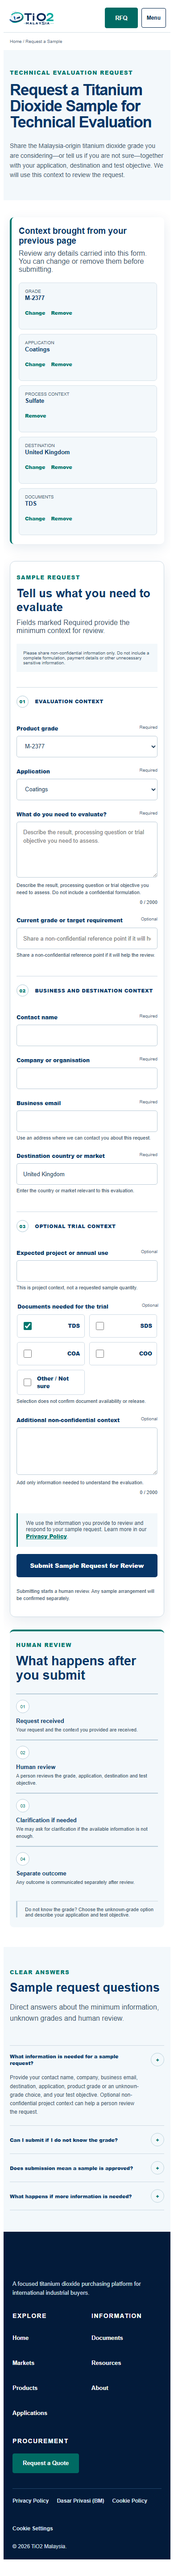
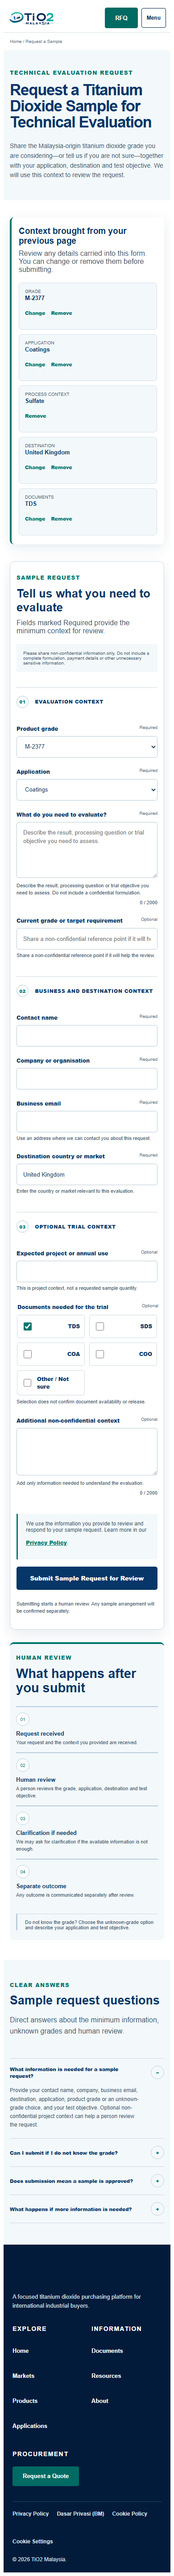
fix: address sample request gate 9 findings

diff --git a/components/sites/tio2-my/request-sample/malaysia-request-sample-form.tsx b/components/sites/tio2-my/request-sample/malaysia-request-sample-form.tsx
@@ -6,7 +6,7 @@ import {emptyMalaysiaSampleRequestValues,validateMalaysiaSampleRequest,type Mala
 import type {MalaysiaRequestSamplePageDto} from '@/lib/wordpress/request-sample-v01-types'
 import styles from './malaysia-request-sample-page.module.css'
 
-interface Props{readonly page:MalaysiaRequestSamplePageDto;readonly prefill:MalaysiaSamplePrefill}
+interface Props{readonly page:MalaysiaRequestSamplePageDto;readonly prefill:MalaysiaSamplePrefill;readonly receiverReady:boolean}
 type State='ready'|'submitting'|'failure'|'success'|'unavailable'
 type Field=keyof MalaysiaSampleRequestValues
 const labels:Record<Field,string>={grade_id:'Product grade',application_id:'Application',application_other:'Describe the application',test_objective:'What do you need to evaluate?',current_grade_or_target:'Current grade or target requirement',contact_name:'Contact name',company_organisation:'Company or organisation',business_email:'Business email',destination_country_market:'Destination country or market',expected_project_annual_use:'Expected project or annual use',documents_needed:'Documents needed for the trial',additional_context:'Additional non-confidential context'}
@@ -19,7 +19,7 @@ export function createSampleRequestIdempotencyKey(cryptoApi:Crypto|undefined=glo
   const hex=[...bytes].map((byte)=>byte.toString(16).padStart(2,'0')).join('');return `${hex.slice(0,8)}-${hex.slice(8,12)}-${hex.slice(12,16)}-${hex.slice(16,20)}-${hex.slice(20)}`
 }
 
-export function MalaysiaRequestSampleForm({page,prefill}:Props){
+export function MalaysiaRequestSampleForm({page,prefill,receiverReady}:Props){
   const [values,setValues]=useState<MalaysiaSampleRequestValues>({...emptyMalaysiaSampleRequestValues,grade_id:prefill.grade_id??'',application_id:prefill.application_id??'',destination_country_market:prefill.destination??'',documents_needed:prefill.documents_needed??[]})
   const [context,setContext]=useState({source_page_id:prefill.source_page_id,market_id:prefill.market_id,process_context:prefill.process_context,resource_context:prefill.resource_context})
   const [visible,setVisible]=useState({grade:Boolean(prefill.grade_id),application:Boolean(prefill.application_id),destination:Boolean(prefill.destination),documents:Boolean(prefill.documents_needed?.length),process:Boolean(prefill.process_context),resource:Boolean(prefill.resource_context)})
@@ -44,12 +44,14 @@ export function MalaysiaRequestSampleForm({page,prefill}:Props){
   const described=(field:Field,helper=false)=>[helper?`sample-${field}-helper`:null,errors[field]?`sample-${field}-error`:null].filter(Boolean).join(' ')||undefined
   const contextVisible=Object.values(visible).some(Boolean)
 
+  if(!receiverReady)return <section className={styles.formSurface} data-module="sample-request" aria-labelledby="sample-unavailable-heading"><div className={`${styles.statePanel} ${styles.unavailable}`}><h2 id="sample-unavailable-heading">{page.form.unavailable.heading}</h2><p>{page.form.unavailable.body}</p></div></section>
+
   return <>
     {contextVisible&&<section className={styles.prefill} aria-labelledby="sample-prefill-heading" data-module="prefill-context"><h2 id="sample-prefill-heading">{page.prefill.heading}</h2><p>{page.prefill.body}</p><div className={styles.prefillGrid}>
       {visible.grade&&<Context label="Grade" targetId="sample-grade_id" value={values.grade_id} onRemove={()=>remove('grade')}/>} {visible.application&&<Context label="Application" targetId="sample-application_id" value={page.form.applicationOptions.find((item)=>item.value===values.application_id)?.label??values.application_id} onRemove={()=>remove('application')}/>} {visible.process&&context.process_context&&<Context label="Process context" value={processLabels[context.process_context]} onRemove={()=>remove('process')} removeOnly/>} {visible.destination&&<Context label="Destination" targetId="sample-destination_country_market" value={values.destination_country_market} onRemove={()=>remove('destination')}/>} {visible.documents&&<Context label="Documents" targetId="sample-documents" value={values.documents_needed.map((value)=>page.form.documentOptions.find((item)=>item.value===value)?.label??value).join(', ')} onRemove={()=>remove('documents')}/>} {visible.resource&&context.resource_context&&prefill.resource_context_label&&<Context label="Resource context" value={prefill.resource_context_label} onRemove={()=>remove('resource')} removeOnly/>}
     </div></section>}
     <section className={styles.formSurface} data-module="sample-request" aria-labelledby="sample-form-heading">
-      <form className={styles.form} aria-label="Request a Sample" onSubmit={submit} noValidate>
+      <form className={styles.form} aria-label="Request a Sample" aria-busy={state==='submitting'||undefined} onSubmit={submit} noValidate>
         <p className={styles.eyebrow}>{page.form.eyebrow}</p><h2 id="sample-form-heading">{page.form.heading}</h2><p className={styles.formIntro}>{page.form.intro}</p><p className={styles.warning}>{page.form.warning}</p>
         {Object.keys(errors).length>0&&<div ref={summaryRef} tabIndex={-1} role="alert" className={styles.errorSummary}><h3>{page.form.errors.summary}</h3><ul>{Object.entries(errors).map(([field,message])=><li key={field}><a href={`#sample-${field}`} onClick={(event)=>{event.preventDefault();focusField(field as Field)}}>{labels[field as Field]}: {message}</a></li>)}</ul></div>}
         {state==='unavailable'?<StatePanel refValue={stateRef} kind="unavailable" heading={page.form.unavailable.heading} body={page.form.unavailable.body}/>:state==='success'?<StatePanel refValue={stateRef} kind="success" heading={page.form.success.heading} body={page.form.success.body}/>:<>

diff --git a/tests/e2e/request-sample.spec.ts b/tests/e2e/request-sample.spec.ts
@@ -44,6 +44,9 @@ for (const viewport of [
         (nodes) => nodes.map((node) => node.getBoundingClientRect()),
       )
       expect(prefillTargets.every((box) => box.height >= 44 && box.width >= 44)).toBe(true)
+      const privacyTarget = await page.getByRole('form').getByRole('link', {name: 'Privacy Policy'}).boundingBox()
+      expect(privacyTarget?.width).toBeGreaterThanOrEqual(44)
+      expect(privacyTarget?.height).toBeGreaterThanOrEqual(44)
     }
 
     const header = page.locator('header')
@@ -86,6 +89,9 @@ for (const width of [320, 375, 430, 1024, 1280]) {
           .map((node) => node.getBoundingClientRect())
           .filter((box) => box.width > 0))
       expect(boxes.every((box) => box.height >= 44)).toBe(true)
+      const privacyTarget = await page.getByRole('form').getByRole('link', {name: 'Privacy Policy'}).boundingBox()
+      expect(privacyTarget?.width).toBeGreaterThanOrEqual(44)
+      expect(privacyTarget?.height).toBeGreaterThanOrEqual(44)
       const columns = await page.locator('form [data-field-grid]').first().evaluate(
         (node) => getComputedStyle(node).gridTemplateColumns.split(' ').length,
       )
@@ -156,12 +162,16 @@ test('CONV-SAMPLE retains values and token across direct retry, then confirms on
     })
   })
   await page.getByRole('button', {name: 'Submit Sample Request for Review'}).click()
+  await expect(page.getByRole('form')).toHaveAttribute('aria-busy', 'true')
   await expect(page.getByRole('heading', {name: 'We could not confirm that your request was received.'})).toBeVisible()
+  await expect(page.getByRole('form')).not.toHaveAttribute('aria-busy')
   await expect(page.locator('#sample-company_organisation')).toHaveValue('Example Co')
   await page.screenshot({path: resolve(evidence, 'conv-sample-failure.png'), fullPage: true, animations: 'disabled'})
   await page.getByRole('button', {name: 'Try again'}).click()
+  await expect(page.getByRole('form')).toHaveAttribute('aria-busy', 'true')
   await expect(page.getByRole('button', {name: 'Sending your request…'})).toBeDisabled()
   await expect(page.getByRole('heading', {name: 'Your sample request has been received.'})).toBeVisible()
+  await expect(page.getByRole('form')).not.toHaveAttribute('aria-busy')
   expect(tokens).toHaveLength(2)
   expect(tokens[1]).toBe(tokens[0])
   await page.screenshot({path: resolve(evidence, 'conv-sample-success.png'), fullPage: true, animations: 'disabled'})
@@ -177,12 +187,32 @@ test('CONV-SAMPLE replaces a known unavailable form with the approved restricted
   await page.locator('#sample-company_organisation').fill('Example Co')
   await page.locator('#sample-business_email').fill('amina@example.com')
   await page.locator('#sample-destination_country_market').fill('Malaysia')
+  await page.route('**/api/tio2-my/request-sample', async (route) => route.fulfill({status: 503, contentType: 'application/json', body: JSON.stringify({ok: false, receipt_confirmed: false, kind: 'unavailable'})}))
   await page.getByRole('button', {name: 'Submit Sample Request for Review'}).click()
   await expect(page.getByRole('heading', {name: 'We cannot confirm sample requests right now.'})).toBeVisible()
   await expect(page.locator('[data-sample-field]')).toHaveCount(0)
   await expect(page.getByRole('button', {name: 'Submit Sample Request for Review'})).toHaveCount(0)
   await expect(page.getByRole('button', {name: 'Try again'})).toHaveCount(0)
   await page.screenshot({path: resolve(evidence, 'conv-sample-unavailable-390.png'), fullPage: true, animations: 'disabled'})
+})
+
+test('CONV-SAMPLE FAQ buttons expose state, panel relationships and keyboard operation', async ({page}) => {
+  await page.setViewportSize({width: 390, height: 844})
+  await page.goto(`${baseUrl}/request-sample/`, {waitUntil: 'domcontentloaded'})
+  const first = page.getByRole('button', {name: 'What information is needed for a sample request?'})
+  const second = page.getByRole('button', {name: 'Can I submit if I do not know the grade?'})
+  await expect(first).toHaveAttribute('aria-expanded', 'true');await expect(second).toHaveAttribute('aria-expanded', 'false')
+  const panelId = await second.getAttribute('aria-controls');expect(panelId).toBeTruthy();await expect(page.locator(`#${panelId}`)).toBeHidden()
+  await second.focus();await page.keyboard.press('Enter');await expect(second).toHaveAttribute('aria-expanded', 'true');await expect(page.locator(`#${panelId}`)).toBeVisible();await expect(second).toBeFocused()
+})
+
+test('CONV-SAMPLE initial GET fails closed when receiver readiness is absent', async ({page}) => {
+  test.skip(process.env.EXPECT_SAMPLE_INITIAL_UNAVAILABLE !== '1', 'Run against a server started without receiver URL/token')
+  await page.setViewportSize({width: 390, height: 844})
+  const response=await page.goto(`${baseUrl}/request-sample/`, {waitUntil: 'domcontentloaded'});expect(response?.ok()).toBe(true)
+  await expect(page.getByRole('form')).toHaveCount(0);await expect(page.locator('[data-sample-field]')).toHaveCount(0);await expect(page.getByRole('button',{name:'Submit Sample Request for Review'})).toHaveCount(0)
+  await expect(page.getByRole('heading',{name:'We cannot confirm sample requests right now.'})).toBeVisible();await expect(page.getByText('The sample request form is not available. No request has been confirmed. Please try again later.')).toBeVisible()
+  await page.screenshot({path: resolve(evidence, 'conv-sample-initial-unavailable-390.png'), fullPage: true, animations: 'disabled'})
 })
 
 test('CONV-SAMPLE Mobile Menu traps focus, closes on Escape and restores the trigger', async ({page}) => {

diff --git a/tests/unit/request-sample/malaysia-request-sample-template.test.tsx b/tests/unit/request-sample/malaysia-request-sample-template.test.tsx
@@ -1,5 +1,5 @@
 // @vitest-environment jsdom
-import {cleanup,render,screen,within} from '@testing-library/react'
+import {cleanup,render,screen,waitFor,within} from '@testing-library/react'
 import userEvent from '@testing-library/user-event'
 import {afterEach,beforeEach,describe,expect,it,vi} from 'vitest'
 import {MalaysiaRequestSamplePage} from '@/components/sites/tio2-my/request-sample/malaysia-request-sample-page'
@@ -8,7 +8,7 @@ import {toMalaysiaRequestSamplePageDto} from '@/lib/wordpress/request-sample-v01
 import {malaysiaRequestSamplePageSource} from '@/tests/fixtures/tio2-my-request-sample-page'
 
 const dto=toMalaysiaRequestSamplePageDto(malaysiaRequestSamplePageSource())
-const renderPage=(prefill=resolveMalaysiaSamplePrefill({}))=>render(<MalaysiaRequestSamplePage page={dto} prefill={prefill} structuredData={null}/>)
+const renderPage=(prefill=resolveMalaysiaSamplePrefill({}),receiverReady=true)=>render(<MalaysiaRequestSamplePage page={dto} prefill={prefill} receiverReady={receiverReady} structuredData={null}/>)
 beforeEach(()=>vi.stubGlobal('fetch',vi.fn(async()=>new Response(JSON.stringify({ok:true,receipt_confirmed:true,kind:'receipt_confirmed'}),{status:200}))))
 afterEach(()=>{cleanup();vi.unstubAllGlobals();vi.clearAllMocks()})
 
@@ -25,6 +25,25 @@ describe('CONV-SAMPLE page and form',()=>{
     expect(container.textContent).not.toContain('CURRENT');expect(within(container.querySelector('header')!).queryAllByRole('link',{current:'page'})).toHaveLength(0)
     for(const item of dto.faq.items)expect(container.textContent).toContain(item.answer)
     expect(container.textContent).not.toMatch(/Free sample|Contact us|Sample quantity Required/iu)
+  })
+  it('server-renders the approved unavailable panel instead of usable controls when receiver readiness is false',()=>{
+    renderPage(resolveMalaysiaSamplePrefill({}),false)
+    expect(screen.queryByRole('form')).toBeNull();expect(screen.queryByLabelText(/Product grade/u)).toBeNull();expect(screen.queryByRole('button',{name:'Submit Sample Request for Review'})).toBeNull()
+    expect(screen.getByRole('heading',{name:'We cannot confirm sample requests right now.'})).toBeTruthy();expect(screen.getByText('The sample request form is not available. No request has been confirmed. Please try again later.')).toBeTruthy();expect(screen.queryByText(/Contact us/iu)).toBeNull()
+  })
+  it('uses disclosure buttons with accurate expanded state and linked FAQ panels',async()=>{
+    const user=userEvent.setup();renderPage();const buttons=dto.faq.items.map((item)=>screen.getByRole('button',{name:item.question}))
+    expect(buttons[0]?.getAttribute('aria-expanded')).toBe('true');expect(buttons[1]?.getAttribute('aria-expanded')).toBe('false')
+    const firstPanel=document.getElementById(buttons[0]!.getAttribute('aria-controls')!);const secondPanel=document.getElementById(buttons[1]!.getAttribute('aria-controls')!)
+    expect(firstPanel?.hasAttribute('hidden')).toBe(false);expect(firstPanel?.getAttribute('aria-labelledby')).toBe(buttons[0]!.id);expect(secondPanel?.hasAttribute('hidden')).toBe(true);expect(secondPanel?.getAttribute('aria-labelledby')).toBe(buttons[1]!.id)
+    buttons[1]!.focus();await user.keyboard('{Enter}');expect(buttons[1]?.getAttribute('aria-expanded')).toBe('true');expect(secondPanel?.hasAttribute('hidden')).toBe(false);expect(document.activeElement).toBe(buttons[1])
+  })
+  it('sets aria-busy only while a submission is in flight',async()=>{
+    let resolveRequest:(value:Response)=>void=()=>undefined
+    vi.mocked(fetch).mockImplementationOnce(()=>new Promise<Response>((resolve)=>{resolveRequest=resolve}))
+    const user=userEvent.setup();renderPage();await fillRequired(user);const form=screen.getByRole('form');await user.click(screen.getByRole('button',{name:'Submit Sample Request for Review'}))
+    await waitFor(()=>expect(form.getAttribute('aria-busy')).toBe('true'));resolveRequest(new Response(JSON.stringify({ok:true,receipt_confirmed:true,kind:'receipt_confirmed'}),{status:200}))
+    await screen.findByRole('heading',{name:'Your sample request has been received.'});expect(form.hasAttribute('aria-busy')).toBe(false)
   })
   it('shows accepted prefill visibly and allows every buyer value to be removed',async()=>{
     const user=userEvent.setup();renderPage(resolveMalaysiaSamplePrefill({source_page_id:'GRADE-M2377',grade_id:'M-2377',application_id:'coatings',process_context:'sulfate',destination:'United Kingdom',document_needs:['tds']}))

diff --git a/tests/integration/request-sample/route.test.tsx b/tests/integration/request-sample/route.test.tsx
@@ -4,16 +4,22 @@ import {toMalaysiaRequestSamplePageDto} from '@/lib/wordpress/request-sample-v01
 import {getSiteConfig} from '@/sites'
 import {malaysiaRequestSamplePageSource} from '@/tests/fixtures/tio2-my-request-sample-page'
 
+const pageDto=toMalaysiaRequestSamplePageDto(malaysiaRequestSamplePageSource())
 const mocks=vi.hoisted(()=>({getCurrentSite:vi.fn(),getPage:vi.fn()}))
 vi.mock('@/lib/sites/current-site',()=>({getCurrentSite:mocks.getCurrentSite}))
 vi.mock('@/lib/wordpress/request-sample-v01-queries',()=>({getMalaysiaRequestSamplePage:mocks.getPage}))
-beforeEach(()=>{mocks.getCurrentSite.mockReturnValue(getSiteConfig('tio2-my'));mocks.getPage.mockResolvedValue(toMalaysiaRequestSamplePageDto(malaysiaRequestSamplePageSource()))})
+beforeEach(()=>{vi.stubEnv('TIO2_MY_REQUEST_SAMPLE_RECEIVER_URL','https://receiver.example.test/sample');vi.stubEnv('TIO2_MY_REQUEST_SAMPLE_RECEIVER_TOKEN','test-token');mocks.getCurrentSite.mockReturnValue(getSiteConfig('tio2-my'));mocks.getPage.mockResolvedValue(pageDto)})
 afterEach(()=>{vi.clearAllMocks();vi.unstubAllEnvs();vi.resetModules()})
 
 describe('CONV-SAMPLE route',()=>{
   it('server-renders safe visible prefill, initial answers, one graph and shared Chrome',async()=>{
     const route=await import('@/app/request-sample/page');const markup=renderToStaticMarkup(await route.default({searchParams:Promise.resolve({source_page_id:'GRADE-M2377',grade_id:'M-2377',application_id:'coatings',process_context:'sulfate',destination:'United Kingdom','document_needs[]':['tds','coa']})}))
-    expect(markup).toContain('data-site-scope="tio2-my"');expect(markup).toContain('Context brought from your previous page');expect(markup).toContain('value="M-2377" selected=""');expect(markup).toContain('United Kingdom');expect(markup.match(/application\/ld\+json/gu)).toHaveLength(1);expect(markup.match(/<header/gu)).toHaveLength(1);expect(markup.match(/<footer/gu)).toHaveLength(1);expect(markup).not.toContain('/contact')
+    expect(markup).toContain('data-site-scope="tio2-my"');expect(markup).toContain('Context brought from your previous page');expect(markup).toContain('value="M-2377" selected=""');expect(markup).toContain('United Kingdom');expect(markup.match(/application\/ld\+json/gu)).toHaveLength(1);expect(markup.match(/<header/gu)).toHaveLength(1);expect(markup.match(/<footer/gu)).toHaveLength(1);expect(markup).not.toContain('/contact');expect(markup).not.toContain('receiver.example.test');expect(markup).not.toContain('test-token')
+    for(const item of pageDto.faq.items)expect(markup).toContain(item.answer)
+  })
+  it.each([{url:'',token:'test-token'},{url:'https://receiver.example.test/sample',token:''}])('server-renders no usable form or receiver secret when either readiness input is absent',async({url,token})=>{
+    vi.stubEnv('TIO2_MY_REQUEST_SAMPLE_RECEIVER_URL',url);vi.stubEnv('TIO2_MY_REQUEST_SAMPLE_RECEIVER_TOKEN',token);const route=await import('@/app/request-sample/page');const markup=renderToStaticMarkup(await route.default({searchParams:Promise.resolve({})}))
+    expect(markup).not.toContain('<form');expect(markup).not.toContain('id="sample-grade_id"');expect(markup).not.toContain('Submit Sample Request for Review');expect(markup).toContain('We cannot confirm sample requests right now.');expect(markup).toContain('The sample request form is not available. No request has been confirmed. Please try again later.');expect(markup).not.toContain('receiver.example.test');expect(markup).not.toContain('test-token')
   })
   it('rejects foreign site before querying WordPress',async()=>{mocks.getCurrentSite.mockReturnValue(getSiteConfig('tio2-b'));const route=await import('@/app/request-sample/page');await expect(route.default({searchParams:Promise.resolve({})})).rejects.toMatchObject({digest:'NEXT_HTTP_ERROR_FALLBACK;404'});expect(mocks.getPage).not.toHaveBeenCalled()})
   it('keeps metadata noindex and query-independent while authorization is false',async()=>{vi.stubEnv('VERCEL_ENV','production');vi.stubEnv('TIO2_MY_REQUEST_SAMPLE_INDEXING_RELEASE_AUTHORIZED','true');const route=await import('@/app/request-sample/page');await expect(route.generateMetadata()).resolves.toMatchObject({alternates:{canonical:'https://tio2malaysia.com/request-sample/'},robots:{index:false,follow:false}})})

diff --git a/components/sites/tio2-my/request-sample/malaysia-request-sample-page.tsx b/components/sites/tio2-my/request-sample/malaysia-request-sample-page.tsx
@@ -3,15 +3,16 @@ import Link from 'next/link'
 import {MalaysiaGlobalFooter,MalaysiaGlobalHeader} from '@/components/sites/tio2-my/malaysia-global-chrome'
 import type {MalaysiaSamplePrefill} from '@/lib/request-sample/malaysia-request-sample-prefill'
 import type {MalaysiaRequestSamplePageDto} from '@/lib/wordpress/request-sample-v01-types'
+import {MalaysiaRequestSampleFaq} from './malaysia-request-sample-faq'
 import {MalaysiaRequestSampleForm} from './malaysia-request-sample-form'
 import styles from './malaysia-request-sample-page.module.css'
 
-export function MalaysiaRequestSamplePage({page,prefill,structuredData}:{readonly page:MalaysiaRequestSamplePageDto;readonly prefill:MalaysiaSamplePrefill;readonly structuredData:ReactNode}){
+export function MalaysiaRequestSamplePage({page,prefill,receiverReady,structuredData}:{readonly page:MalaysiaRequestSamplePageDto;readonly prefill:MalaysiaSamplePrefill;readonly receiverReady:boolean;readonly structuredData:ReactNode}){
   return <div className={styles.site} data-site-scope="tio2-my" data-page-id="CONV-SAMPLE"><MalaysiaGlobalHeader chrome={page.globalChrome} currentPageId="CONV-SAMPLE" sourcePageId="CONV-SAMPLE"/><main className={styles.main}>
     <nav aria-label="Breadcrumb" className={styles.breadcrumb} data-module="breadcrumb"><Link href="/">Home</Link><span aria-hidden="true"> / </span><span aria-current="page">Request a Sample</span></nav>
     <section className={styles.hero} data-module="hero" aria-labelledby="sample-h1"><div><p className={styles.eyebrow}>{page.hero.eyebrow}</p><h1 id="sample-h1">{page.hero.h1}</h1><p className={styles.heroBody}>{page.hero.body}</p></div><ol aria-label="Sample request overview">{page.hero.stages.map((stage,index)=><li key={stage}><span>{String(index+1).padStart(2,'0')}</span>{stage}</li>)}</ol></section>
-    <MalaysiaRequestSampleForm page={page} prefill={prefill}/>
+    <MalaysiaRequestSampleForm page={page} prefill={prefill} receiverReady={receiverReady}/>
     <section className={styles.review} data-module="human-review" aria-labelledby="sample-review-heading"><div><p className={styles.eyebrow}>{page.humanReview.eyebrow}</p><h2 id="sample-review-heading">{page.humanReview.heading}</h2></div><ol>{page.humanReview.steps.map((step,index)=><li key={step.title}><span>{String(index+1).padStart(2,'0')}</span><h3>{step.title}</h3><p>{step.body}</p></li>)}</ol><p className={styles.reviewNote}>{page.humanReview.note}</p></section>
-    <section className={styles.faq} data-module="faq" aria-labelledby="sample-faq-heading"><div><p className={styles.eyebrow}>{page.faq.eyebrow}</p><h2 id="sample-faq-heading">{page.faq.heading}</h2><p>{page.faq.intro}</p></div><div>{page.faq.items.map((item,index)=><details key={item.question} open={index===0}><summary>{item.question}<span aria-hidden="true">+</span></summary><p>{item.answer}</p></details>)}</div></section>
+    <section className={styles.faq} data-module="faq" aria-labelledby="sample-faq-heading"><div><p className={styles.eyebrow}>{page.faq.eyebrow}</p><h2 id="sample-faq-heading">{page.faq.heading}</h2><p>{page.faq.intro}</p></div><MalaysiaRequestSampleFaq items={page.faq.items}/></section>
   </main><MalaysiaGlobalFooter chrome={page.globalChrome} sourcePageId="CONV-SAMPLE"/>{structuredData}</div>
 }

diff --git a/app/request-sample/page.tsx b/app/request-sample/page.tsx
@@ -11,4 +11,4 @@ export const revalidate=3600
 interface RouteProps{readonly searchParams:Promise<Record<string,string|string[]|undefined>>}
 async function loadPage(){const site=getCurrentSite();if(site.id!=='tio2-my'||site.wordpressScope!=='tio2-my')notFound();return {site,page:await getMalaysiaRequestSamplePage()}}
 export async function generateMetadata():Promise<Metadata>{const {site,page}=await loadPage();return buildMalaysiaRequestSampleMetadata(site,{indexingAuthorized:page.releaseControls.indexingAuthorized,env:process.env})}
-export default async function RequestSampleRoute({searchParams}:RouteProps){const [{site,page},query]=await Promise.all([loadPage(),searchParams]);const prefill=resolveMalaysiaSamplePrefill({source_page_id:query.source_page_id,grade_id:query.grade_id,application_id:query.application_id,process_context:query.process_context,market_id:query.market_id,destination:query.destination,document_needs:query['document_needs[]']??query.document_needs,resource_context:query.resource_context});const jsonLd=serializeMalaysiaRequestSampleJsonLd(buildMalaysiaRequestSampleJsonLd(site));return <MalaysiaRequestSamplePage page={page} prefill={prefill} structuredData={<script type="application/ld+json" dangerouslySetInnerHTML={{__html:jsonLd}}/>}/>}
+export default async function RequestSampleRoute({searchParams}:RouteProps){const [{site,page},query]=await Promise.all([loadPage(),searchParams]);const prefill=resolveMalaysiaSamplePrefill({source_page_id:query.source_page_id,grade_id:query.grade_id,application_id:query.application_id,process_context:query.process_context,market_id:query.market_id,destination:query.destination,document_needs:query['document_needs[]']??query.document_needs,resource_context:query.resource_context});const receiverReady=Boolean(process.env.TIO2_MY_REQUEST_SAMPLE_RECEIVER_URL?.trim()&&process.env.TIO2_MY_REQUEST_SAMPLE_RECEIVER_TOKEN?.trim());const jsonLd=serializeMalaysiaRequestSampleJsonLd(buildMalaysiaRequestSampleJsonLd(site));return <MalaysiaRequestSamplePage page={page} prefill={prefill} receiverReady={receiverReady} structuredData={<script type="application/ld+json" dangerouslySetInnerHTML={{__html:jsonLd}}/>}/>}

diff --git a/components/sites/tio2-my/request-sample/malaysia-request-sample-page.module.css b/components/sites/tio2-my/request-sample/malaysia-request-sample-page.module.css
@@ -3,3 +3,6 @@
 @media(max-width:520px){.breadcrumb,.prefill,.formSurface,.review{width:calc(100% - 28px)}.breadcrumb{padding-block:14px;font-size:10px}.hero{padding:42px 14px 45px}.hero h1{font-size:35px}.heroBody{font-size:14px;line-height:1.55}.prefill,.formSurface{margin-top:38px}.prefill{padding:20px 16px}.prefill h2{font-size:19px}.prefillGrid{grid-template-columns:1fr}.formSurface{padding:27px 14px 32px}.form h2{font-size:26px}.warning{font-size:10px}.form>fieldset>legend{font-size:11px}.field label,.documents>legend{font-size:12px}.field :is(input,select,textarea){min-height:48px;font-size:13px}.documents>div{grid-template-columns:repeat(2,minmax(0,1fr))}.submitRow button{width:100%}.review{padding:22px 14px}.review ol{grid-template-columns:1fr}.faq{margin-top:44px;padding:48px 14px}.faq h2{font-size:27px}.faq summary{font-size:11px}.faq details p{font-size:12px}}
 @media(prefers-reduced-motion:reduce){.main *,.main *::before,.main *::after{scroll-behavior:auto!important;animation-duration:.01ms!important;animation-iteration-count:1!important;transition-duration:.01ms!important}}
 .site{--teal:#00776e}.breadcrumb{color:#5c7185}.field label small,.documents legend small{color:#526a80}
+.statePanel h2{margin:0 0 8px;color:var(--navy);font-size:20px}.faqItem{border-top:1px solid var(--border)}.faqItem:last-child{border-bottom:1px solid var(--border)}.faqButton{display:flex;width:100%;min-height:62px;align-items:center;justify-content:space-between;gap:20px;padding:0;border:0;background:transparent;color:var(--navy);font:inherit;font-size:13px;font-weight:800;text-align:left;cursor:pointer}.faqButton span{display:grid;width:28px;height:28px;flex:0 0 28px;place-items:center;border:1px solid #bdd3dc;border-radius:50%;color:var(--teal)}.faqPanel p{margin:0;padding:0 48px 20px 0;line-height:1.6}
+@media(max-width:900px){.privacy a{display:inline-flex;min-width:44px;min-height:44px;align-items:center;justify-content:center;vertical-align:middle}}
+@media(max-width:520px){.faqButton{font-size:11px}.faqPanel p{font-size:12px}}

diff --git a/components/sites/tio2-my/request-sample/malaysia-request-sample-faq.tsx b/components/sites/tio2-my/request-sample/malaysia-request-sample-faq.tsx
@@ -1,0 +1,14 @@
+'use client'
+
+import {useState} from 'react'
+import styles from './malaysia-request-sample-page.module.css'
+
+interface FaqItem{readonly question:string;readonly answer:string}
+
+export function MalaysiaRequestSampleFaq({items}:{readonly items:readonly FaqItem[]}){
+  const [expanded,setExpanded]=useState(()=>items.map((_,index)=>index===0))
+  return <div>{items.map((item,index)=>{const triggerId=`sample-faq-trigger-${index+1}`;const panelId=`sample-faq-panel-${index+1}`;const open=expanded[index]??false;return <div className={styles.faqItem} key={item.question}>
+    <button className={styles.faqButton} type="button" id={triggerId} aria-expanded={open} aria-controls={panelId} onClick={()=>setExpanded((current)=>current.map((value,itemIndex)=>itemIndex===index?!value:value))}>{item.question}<span aria-hidden="true">{open?'−':'+'}</span></button>
+    <div className={styles.faqPanel} id={panelId} role="region" aria-labelledby={triggerId} hidden={!open}><p>{item.answer}</p></div>
+  </div>})}</div>
+}

diff --git a/docs/verification/conv-sample/CONV-SAMPLE_G9_TARGETED_REVISION_VERIFICATION_2026-09-04.md b/docs/verification/conv-sample/CONV-SAMPLE_G9_TARGETED_REVISION_VERIFICATION_2026-09-04.md
@@ -1,0 +1,86 @@
+# CONV-SAMPLE Gate 9 Targeted Revision Verification — 2026-09-04
+
+## Control and boundary
+
+- Review ID: `CONV-SAMPLE-G9-PCR-01`
+- Page: `CONV-SAMPLE` / `/request-sample/`
+- Site scope: `tio2-my`
+- Result: the four returned implementation findings were corrected locally and are ready for a fresh read-only Gate 9 review.
+- This record is not deployment, publication, indexing, Gate 9 approval, or Gate 10 authorization.
+
+## Corrected findings
+
+### `SAMPLE-G9-P1-01` — initial known unavailability
+
+- The server computes one non-secret `receiverReady` boolean from the Malaysia-only receiver URL and token configuration and passes only that boolean into the page tree.
+- If either configuration input is absent or blank, initial server rendering emits the exact approved unavailable heading/body and no `<form>`, sample field, submit action, prefill controls, receiver URL, or receiver token.
+- If readiness changes during a submission, the existing 503 unavailable state still replaces controls. Network/ambiguous failure still retains all entries and direct retry still reuses the same idempotency key.
+
+### `SAMPLE-G9-P1-02` — Privacy Policy target
+
+- At `900px` and below, the form's actual Privacy Policy anchor is an inline-flex target with a minimum width and height of `44px`.
+- Browser assertions pass at `768`, `430`, `390`, `375`, and `320px`; surrounding paragraph padding is not counted as the target.
+
+### `SAMPLE-G9-P2-01` — FAQ disclosure semantics
+
+- Each FAQ uses a native button with deterministic `id`, accurate `aria-expanded`, and `aria-controls` linked to a labelled answer region.
+- The first answer remains initially expanded. Every answer remains present in server-rendered HTML; closed panels use the native `hidden` state.
+- Browser and component tests verify Enter operation, state change, panel visibility, relationship integrity, and focus retention on the trigger.
+
+### `SAMPLE-G9-P2-02` — submitting busy state
+
+- The form exposes `aria-busy="true"` only while its receiver request is in flight and removes the attribute on failure or confirmed success.
+- Existing repeat-submission prevention, disabled fieldsets/button, retained values, direct retry, and positive-acknowledgement-only success behavior remain intact.
+
+## Test-driven evidence
+
+- Red phase: the new component/SSR tests produced four expected failures covering initial fail-closed rendering, FAQ button semantics, and form busy state before production code was changed.
+- Green focused phase: `2` files, `14` tests passed.
+
+## Fresh verification commands
+
+| Check | Command | Result |
+|---|---|---|
+| Focused component + SSR | `pnpm exec vitest run tests/unit/request-sample/malaysia-request-sample-template.test.tsx tests/integration/request-sample/route.test.tsx` | PASS — 2 files, 14 tests |
+| CONV-SAMPLE regression and isolation | `pnpm exec vitest run tests/unit/wordpress/cache-tags.test.ts tests/integration/api/revalidate.test.ts tests/unit/request-sample tests/integration/request-sample tests/infrastructure/tio2-my-request-sample-wordpress.test.ts` | PASS — 13 files, 133 tests |
+| TypeScript | `pnpm typecheck` | PASS |
+| Changed-file ESLint | `pnpm exec eslint ...changed TypeScript files...` | PASS — 0 errors/warnings |
+| Production build | `SITE_ID=tio2-my pnpm build` | PASS — `/request-sample` and `/api/tio2-my/request-sample` present |
+| Configured-receiver production browser run | `pnpm exec playwright test --config=playwright.config.ts tests/e2e/request-sample.spec.ts` | PASS — 14 passed, 1 environment-specific test skipped |
+| Missing-receiver production browser run | `EXPECT_SAMPLE_INITIAL_UNAVAILABLE=1 pnpm exec playwright test --config=playwright.config.ts tests/e2e/request-sample.spec.ts --grep "initial GET fails closed"` | PASS — 1 passed |
+| Diff hygiene | `git diff --check` | PASS |
+
+The browser runtime used the repository's scoped CONV-SAMPLE CMS fixture. Receiver configuration in the configured run was a non-production placeholder and all receiver calls were intercepted by the test; it is not production receiver evidence.
+
+## Browser and responsive results
+
+- `1440`, `768`, and `390px`: H1, module order, shared Chrome, production logo, RFQ surfaces, metadata/Schema restrictions, zero serious/critical Axe violations, and exact document-width parity passed.
+- `1280`, `1024`, `430`, `375`, and `320px`: no page-level horizontal overflow passed.
+- `768`, `430`, `390`, `375`, and `320px`: the form Privacy Policy anchor itself is at least `44 × 44` logical pixels.
+- `390px`: FAQ Enter operation, `aria-expanded`, `aria-controls`, labelled panel, focus retention, and initial known-unavailable replacement passed.
+- In-flight retry evidence verifies `aria-busy=true`; both unconfirmed completion and confirmed success restore the non-busy state.
+
+## Fresh screenshot ledger
+
+| Evidence | Dimensions | SHA-256 |
+|---|---:|---|
[9 lines of base64/hex data omitted]
+
+The fresh Desktop, Tablet, Mobile, and initial-unavailable screenshots were manually inspected. Module order, shared Header/Footer/logo/RFQ, form composition, FAQ disclosure visuals, and unavailable replacement are visible without collision or horizontal clipping.
+
+## Preserved contracts and release blockers
+
+- Approved page copy, field set/order, product relationships, metadata, JSON-LD, no-promise rules, shared Global Chrome, and `site_scope=tio2-my` query/route/cache boundaries are unchanged.
+- No cross-scope fallback, Contact fallback, FAQPage/Product/Offer Schema, receiver secret, query value, or personal data was added to rendered output.
+- Production receiver/persistence/deduplication/positive-acknowledgement evidence remains outstanding.
+- The scoped WordPress singleton/seed still requires application and verification in the separately authorized target environment.
+- Legal/Privacy data-flow parity, shared RFQ/upstream/shared dependency readiness, Gate 9 approval, and explicit Gate 10 authorization remain release controls.
+- No deployment, publication, DNS, sitemap admission, or indexing action was performed.
